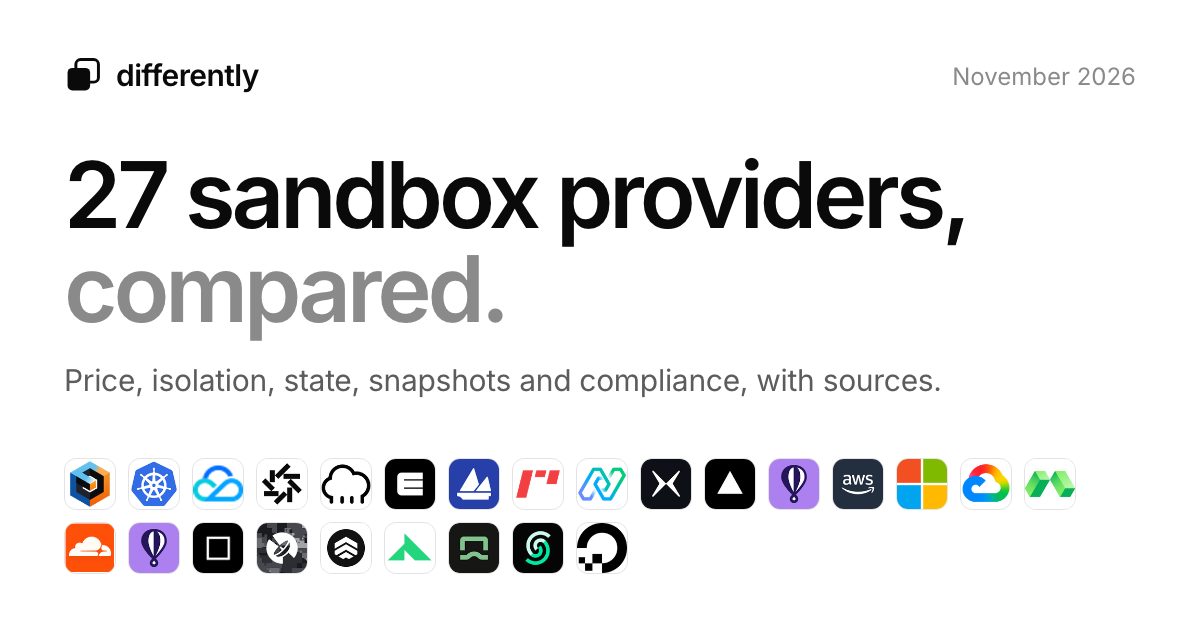
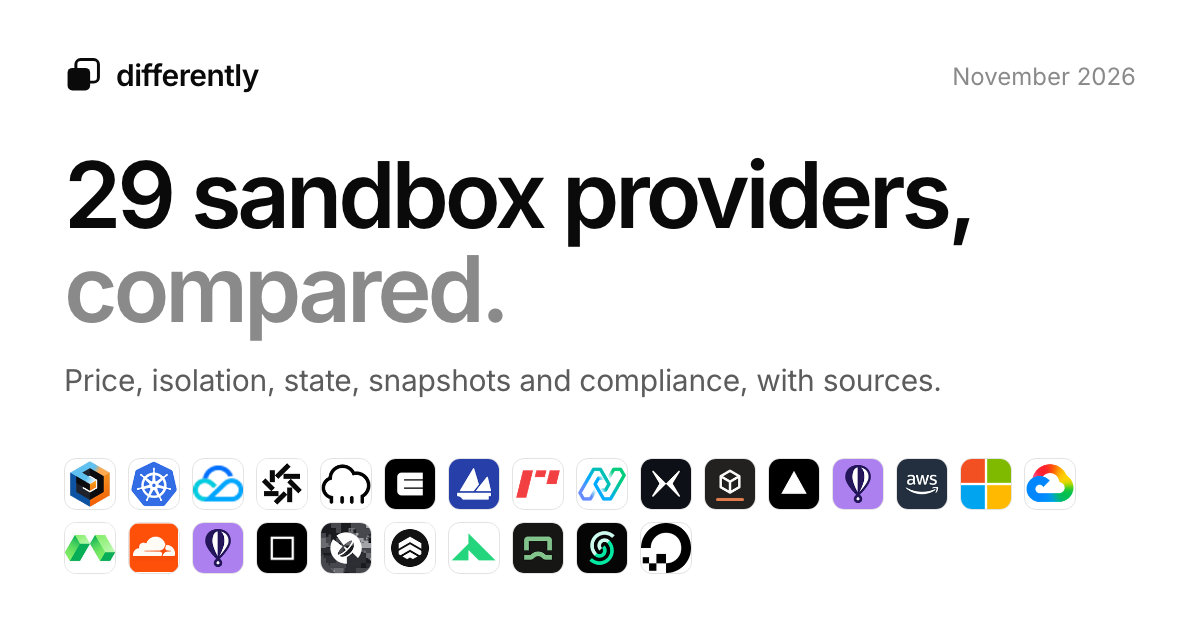
feat(site): add gke-sandboxes to the comparison and correct three prices
The comparison at /compare/ has 29 entries. gke-sandboxes is added with
its authors' cost estimate quoted beside it and kept off the price scale.
Modal is shown as billed on use, Fly.io Machines gets a figure for two
sizes with 2 GB, and Sprites uses the CPU rate Fly states. The console's
catalog reads the same file. The share image is redrawn for 29.

Changed region(s): [[0.0925, 0.2413, 0.8017, 0.3921], [0.0308, 0.8143, 0.5858, 0.9349], [0.5858, 0.7238, 0.8942, 0.8143]]

diff --git a/site/src/data/providers.ts b/site/src/data/providers.ts
@@ -6,7 +6,9 @@
 //   - Features and the Differently status: docs/providers/*.md, which name the
 //     API pages read and the date. Keep the two in step.
 //   - Prices: each provider's public pricing page or, where marked, a
-//     third-party comparison, read on PRICES_READ. They are list prices.
+//     third-party comparison, read on PRICES_READ. They are list prices. A
+//     runtime you operate has none: where its authors publish an estimate, it
+//     goes in `fees` with its source, never in `slot`.
 //   - Compliance: what the provider states on its own security or trust page.
 //
 // Rules for editing: never state a figure that was not read from a source, mark
@@ -14,6 +16,8 @@
 
 export const PRICES_READ = '2026-11-16';
 export const PRICES_READ_LABEL = '16 November 2026';
+/** Entries read again, or for the first time, after PRICES_READ. */
+export const PRICES_READ_LATER = { label: '18 November 2026', ids: ['fly', 'modal', 'sprites', 'gke-sandboxes'] };
 
 /** How a provider relates to Differently today. */
 export type Support = 'verified' | 'experimental' | 'plugin' | 'unassessed';
@@ -83,7 +87,7 @@ export interface Provider {
   adapter?: string;
   cpu: string | null;
   memory: string | null;
-  /** List price of one running hour of 1 vCPU and 2 GiB: [low] or [low, high]. For usage billing, low is 25% busy and high is 100% busy. */
+  /** List price of one running hour of 1 vCPU and 2 GiB: [low] or [low, high]. For usage billing, low is 25% busy and high is 100% busy. Any other span (two sizes, two sources) is named in slotNote. */
   slot: [number] | [number, number] | null;
   slotNote?: string;
   fees: string;
@@ -274,7 +278,7 @@ export const providers: Provider[] = [
     kind: 'Hosted service', support: 'experimental', docs: 'fly',
     supportNote: 'Experimental adapter, tested against a fake server.',
     isolation: 'Firecracker microVM',
-    billing: 'tier', cpu: 'By machine size', memory: 'By machine size', slot: null, fees: 'From $0.0093 an hour for a shared CPU with 1 GB.', priceSource: 'https://fly.io/learn/ai-sandbox-pricing/',
+    billing: 'tier', cpu: 'By machine size', memory: 'By machine size', slot: [0.0186, 0.0458], slotNote: 'A shared-cpu-2x Machine with 2 GB, up to a performance-1x with 2 GB.', fees: 'Prices are for its two lowest-priced regions; others cost more. A stopped Machine pays $0.15 / GB-month for its root filesystem.', priceSource: 'https://fly.io/docs/about/pricing/',
     rates: null,
     adapter: 'fly',
     keepsState: 'Stop/start; suspend is best effort', snapshots: 'None', ports: 'None per machine', maxSize: '16 vCPU, 128 GiB',
@@ -343,12 +347,12 @@ export const providers: Provider[] = [
     kind: 'Hosted service', support: 'plugin', docs: 'modal',
     supportNote: 'Through a remote plugin: Modal has no public REST API for sandboxes.',
     isolation: 'gVisor; a VM runtime is optional',
-    billing: 'wall', cpu: '$0.1419 / core-h', memory: '$0.024 / GiB-h', slot: [0.119], fees: 'A core is 2 vCPU. $30 a month in credit. Pinning a region costs more.', priceSource: 'https://modal.com/products/sandboxes',
-    rates: { cpuHour: 0.07095, memoryGiBHour: 0.024, basis: 'allocated', note: 'Modal prices a physical core, which is 2 vCPU; the CPU rate here is half of that.' },
+    billing: 'usage', cpu: '$0.1419 / core-h', memory: '$0.024 / GiB-h', slot: [0.0657, 0.119], slotNote: 'With nothing reserved above the default. A sandbox that reserves its size pays the high figure all the time.', fees: 'A core is 2 vCPU. Bills the larger of what is reserved and what is used; the default reservation is 0.125 core and 128 MiB. $30 a month in credit. Pinning a region costs more.', priceSource: 'https://modal.com/pricing',
+    rates: { cpuHour: 0.07095, memoryGiBHour: 0.024, basis: 'used', note: 'Modal prices a physical core, which is 2 vCPU; the CPU rate here is half of that. It bills the larger of what a sandbox reserves and what it uses.' },
     keepsState: 'None', snapshots: 'Disk, fork', ports: 'Tunnel URLs', maxSize: 'Not published; GPUs available',
     caps: { kernel: 'part', stop: 'no', memory: 'no', snapshot: 'yes', fork: 'yes', url: 'yes', own: 'no' },
     runItYourself: 'No', soc2: 'yes', hipaa: 'yes', iso: 'none', complianceNote: 'SOC 2 Type II. BAA on Enterprise, with Volumes excluded.',
-    note: 'Bills the larger of what you request and what you use. Sandboxes cost about three times its standard function rate.',
+    note: 'Bills the larger of what you reserve and what you use, down to a default of 0.125 core. Sandboxes cost about three times its standard function rate.',
   },
   {
     id: 'cloudflare', name: 'Cloudflare Sandbox', logo: 'cloudflare.png', url: 'https://developers.cloudflare.com/sandbox/',
@@ -367,8 +371,8 @@ export const providers: Provider[] = [
     kind: 'Hosted service', support: 'plugin', docs: 'sprites',
     supportNote: 'Through a remote plugin for now: exec is specified only over WebSocket.',
     isolation: 'MicroVM',
-    billing: 'usage', cpu: '$0.03825 / CPU-h used', memory: '$0.021875 / GB-h used', slot: [0.0533, 0.082], fees: 'Plans are optional. Storage is extra.', priceSource: 'https://fly.io/pricing-update/',
-    rates: { cpuHour: 0.03825, memoryGiBHour: 0.021875, basis: 'used' },
+    billing: 'usage', cpu: '$0.0385 / CPU-h used', memory: '$0.021875 / GB-h used', slot: [0.0534, 0.0823], fees: 'Plans are optional. Storage is extra.', priceSource: 'https://fly.io/pricing-update/',
+    rates: { cpuHour: 0.0385, memoryGiBHour: 0.021875, basis: 'used' },
     keepsState: 'Sleeps and wakes by itself; the disk persists, memory while warm', snapshots: 'Disk checkpoints', ports: 'One URL per sprite', maxSize: '8 vCPU, 100 GB',
     caps: { kernel: 'yes', stop: 'yes', memory: 'part', snapshot: 'yes', fork: 'no', url: 'yes', own: 'no' },
     runItYourself: 'No', soc2: 'unconfirmed', hipaa: 'unconfirmed', iso: 'unconfirmed', complianceNote: 'Fly.io holds SOC 2 Type 2 and offers a BAA. Whether Sprites is covered was not confirmed.',
@@ -421,6 +425,18 @@ export const providers: Provider[] = [
     caps: { kernel: 'no', stop: 'part', memory: 'part', snapshot: 'yes', fork: 'yes', url: 'part', own: 'yes' },
     runItYourself: 'Runs in your GKE cluster', ...own, complianceNote: 'It runs in your cluster, inside your own audit scope.',
     note: 'A GKE add-on built on agent-sandbox, with gVisor isolation.',
+  },
+  {
+    id: 'gke-sandboxes', name: 'gke-sandboxes', logo: 'gcp.png', url: 'https://github.com/comp-work/gke-sandboxes',
+    kind: 'Open-source runtime', support: 'unassessed',
+    supportNote: 'No adapter yet. It is a TypeScript library that drives the Kubernetes API, with no server of its own, so a remote plugin is the route.',
+    isolation: 'gVisor',
+    billing: 'infra', cpu: null, memory: null, slot: null, fees: 'Your GKE nodes. Its authors estimate $0.019 for each hour a sandbox is awake: a whole cluster bill shared by 520 sandboxes that each use about 4% of 2 vCPU.', priceSource: 'https://github.com/comp-work/gke-sandboxes/blob/main/docs/comparison.md',
+    rates: null,
+    keepsState: 'Sleep keeps the files, not the processes', snapshots: 'Files, restored into the same sandbox', ports: 'A private address; an example proxy signs links', maxSize: 'Your nodes (2 vCPU, 4 GiB, 20 GiB by default)',
+    caps: { kernel: 'no', stop: 'yes', memory: 'no', snapshot: 'part', fork: 'no', url: 'part', own: 'yes' },
+    runItYourself: 'Yes, Apache-2.0, on GKE', ...own, complianceNote: 'It runs in your Google Cloud project, inside your own audit scope.',
+    note: 'Energy\'s setup for GKE, published in November 2026: a gVisor pod for each sandbox, which sleeps after five idle minutes and wakes with its files. The cost is its authors\' estimate at their scale, not a list price.',
   },
   {
     id: 'novita', name: 'Novita Agent Sandbox', logo: 'novita.png', url: 'https://novita.ai/sandbox',

diff --git a/console/test/catalog.test.ts b/console/test/catalog.test.ts
@@ -124,7 +124,7 @@ test('a provider is added here, through a plugin, with the CLI, or not yet', () 
 
 test('the catalog filters by kind and by what is typed', () => {
   assert.equal(search('all', '').length, providers.length);
-  assert.deepEqual(search('open', '').map((p) => p.id), ['opensandbox', 'agent-sandbox', 'cubesandbox']);
+  assert.deepEqual(search('open', '').map((p) => p.id), ['opensandbox', 'agent-sandbox', 'cubesandbox', 'gke-sandboxes']);
   assert.deepEqual(search('all', 'azure').map((p) => p.id), ['azure-sandboxes', 'azure-sessions']);
   assert.deepEqual(search('hosted', '  FIRECRACKER ').map((p) => p.id), ['e2b', 'groundbox', 'vercel', 'fly', 'cloudflare', 'codesandbox', 'tensorlake']);
   assert.deepEqual(search('cloud', 'daytona'), []);

diff --git a/CHANGELOG.md b/CHANGELOG.md
@@ -80,6 +80,27 @@ All notable changes are recorded here. The format follows
   snapshots. Tested with a fake server;
   `TestLivePodSnapshots` is written but has not run on GKE.
 
+### Changed
+
+- The provider comparison at `/compare/` has 29 entries and three corrected
+  prices, read on 18 November 2026.
+  - **gke-sandboxes** is added: Energy's open-source setup for running
+    sandboxes on your own GKE cluster. It has no list price. Its authors'
+    estimate ($0.019 for each hour a sandbox is awake, a whole cluster bill
+    shared by 520 mostly idle sandboxes) is quoted beside the entry with its
+    source and kept off the price scale. Differently has no adapter for it.
+  - **Modal** is now shown as billed on use, $0.066 to $0.119 an hour: it
+    charges the larger of what a sandbox reserves and what it uses, and
+    reserves 0.125 core unless told otherwise. It was shown at $0.119 only.
+  - **Fly.io Machines** has a figure, $0.019 to $0.046 an hour, from a
+    `shared-cpu-2x` to a `performance-1x` Machine with 2 GB. It was "not
+    comparable".
+  - **Sprites** uses the CPU rate Fly states, $0.0385 an hour, not the
+    $0.03825 its worked example implies.
+
+  The console's catalog and the simulator read the same file, so they change
+  with it. The share image was redrawn for 29.
+
 ### Fixed
 
 - `differently-server` takes its ports before it starts the scheduler or

diff --git a/docs/providers/fly.md b/docs/providers/fly.md
@@ -97,8 +97,10 @@ above.
 - Machines are not restored from snapshots, so `fromSnapshot` is refused
   with `invalid_request`.
 - Pricing: started machines are billed per second by CPU kind and memory
-  (from $2.19 per 30 days for `shared-cpu-1x` with 256 MB in `iad`); stopped
-  and suspended machines pay $0.15 per GB-month of root filesystem.
+  (from $2.19 per 30 days for `shared-cpu-1x` with 256 MB in `iad`; with
+  2 GB, $13.39 for `shared-cpu-2x` and $33.00 for `performance-1x`, read
+  2026-11-18); stopped and suspended machines pay $0.15 per GB-month of root
+  filesystem.
 
 ## How it was tested
 

diff --git a/console/README.md b/console/README.md
@@ -108,7 +108,7 @@ how much it may spend.
   until the month ends (UTC) or the budget is raised; sandboxes already there
   keep running. It needs prices, because the estimate is the prices times how
   long sandboxes ran. It is not an invoice.
-- **The catalog** shows the same 28 providers as the website's
+- **The catalog** shows the same 29 providers as the website's
   [comparison](https://different-ai.github.io/differently/compare/): list
   price, how each bills, what it documents and what it states about
   compliance. A pool is matched to its entry by adapter; a pool on a remote

diff --git a/docs/providers/modal.md b/docs/providers/modal.md
@@ -111,7 +111,10 @@ sandbox timeout.
   creation rate is documented.
 - Pricing: per second on the larger of requested and used CPU and memory, at
   non-preemptible rates (about $0.0000394 per core-second and $0.0000067 per
-  GiB-second).
+  GiB-second). A sandbox requests 0.125 core and 128 MiB unless told
+  otherwise, so one that requests nothing more is billed for what it uses
+  ([sandbox resources](https://modal.com/docs/guide/sandbox-resources), read
+  2026-11-18).
 
 ## How it was tested
 
